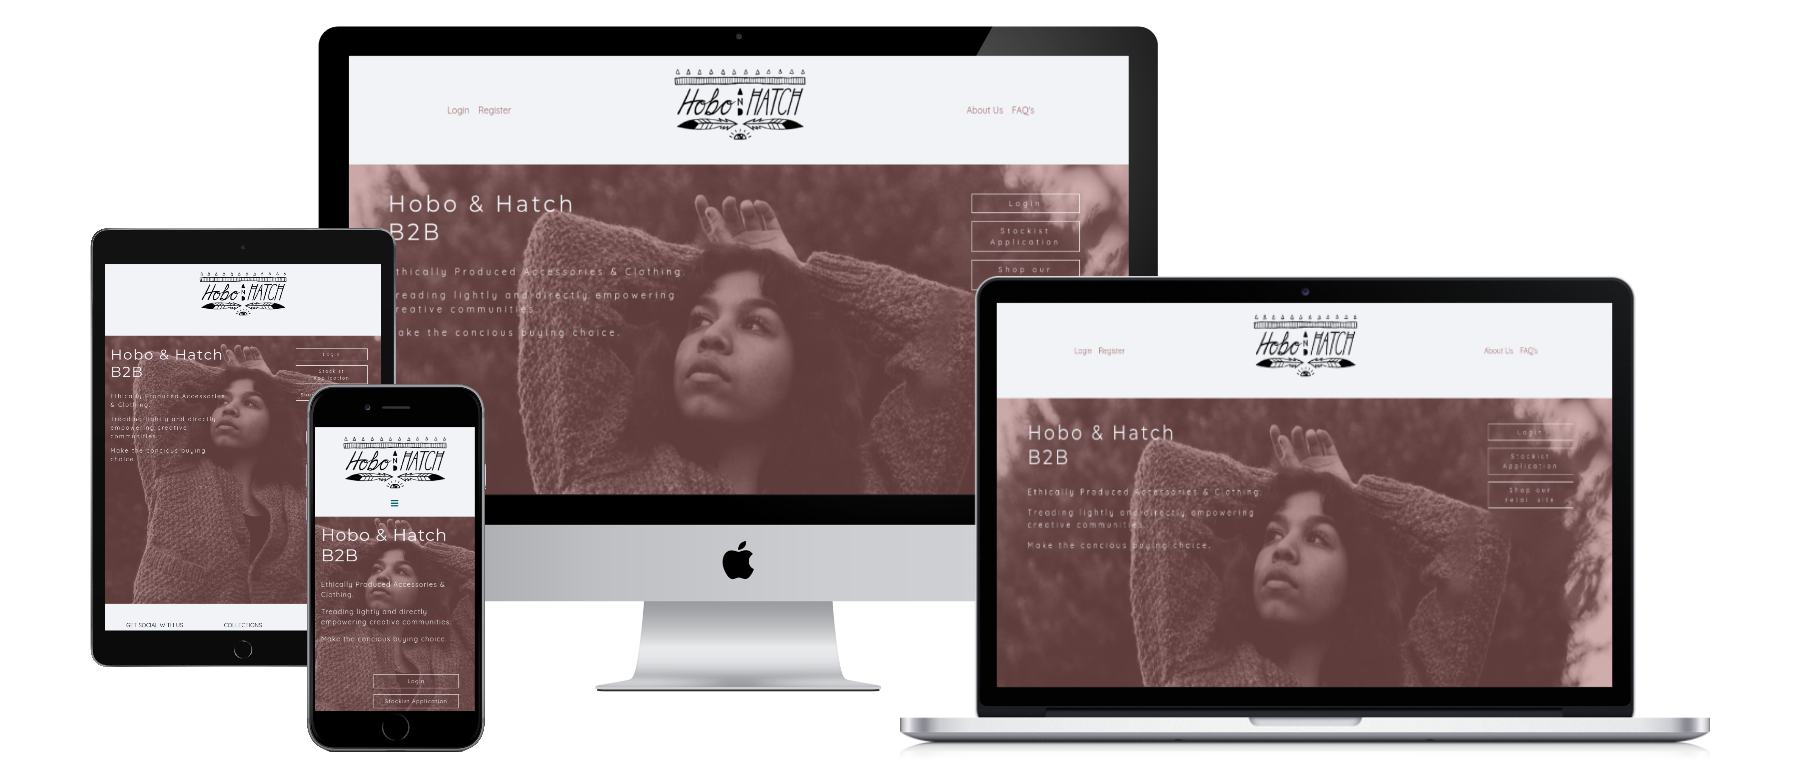
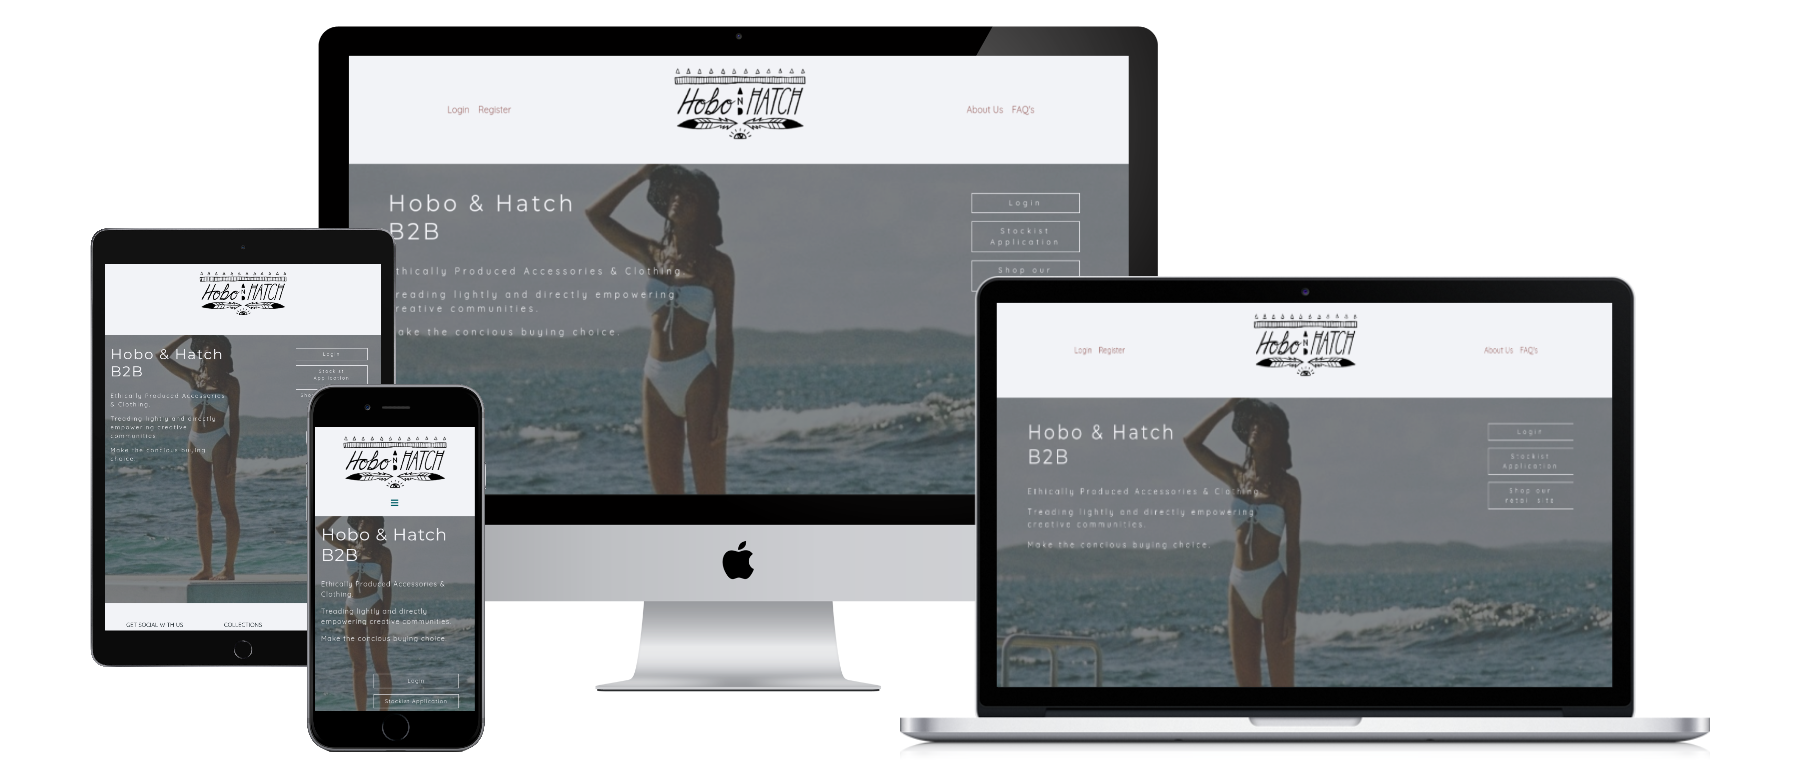
Update README images to match updated site.

diff --git a/README.md b/README.md
@@ -129,9 +129,11 @@
 
 * For the Homepage of Hobo & Hatch B2B it was essential for the potential or existing customer to get a sense of the brand on first site and a simple to navigate set of call to actions base on whether the customer is a new user, a registered user or completed profile user, so I used one of the brand's autumn-winter season photos as the main backdrop with a colour filter overlay to ensure text is accessible.
 
-![Homepage](docs/feature_images/home_desktop.png)
+![Homepage](docs/feature_images/desktop.png)
 
-![Mobile](docs/feature_images/home_mobile-black.png)
+![Mobile](docs/feature_images/mobile-black.png)
+![Laptop](docs/feature_images/laptop.png)
+![Tablet](docs/feature_images/tablet-black.png)
 
 ### Navigation
  
